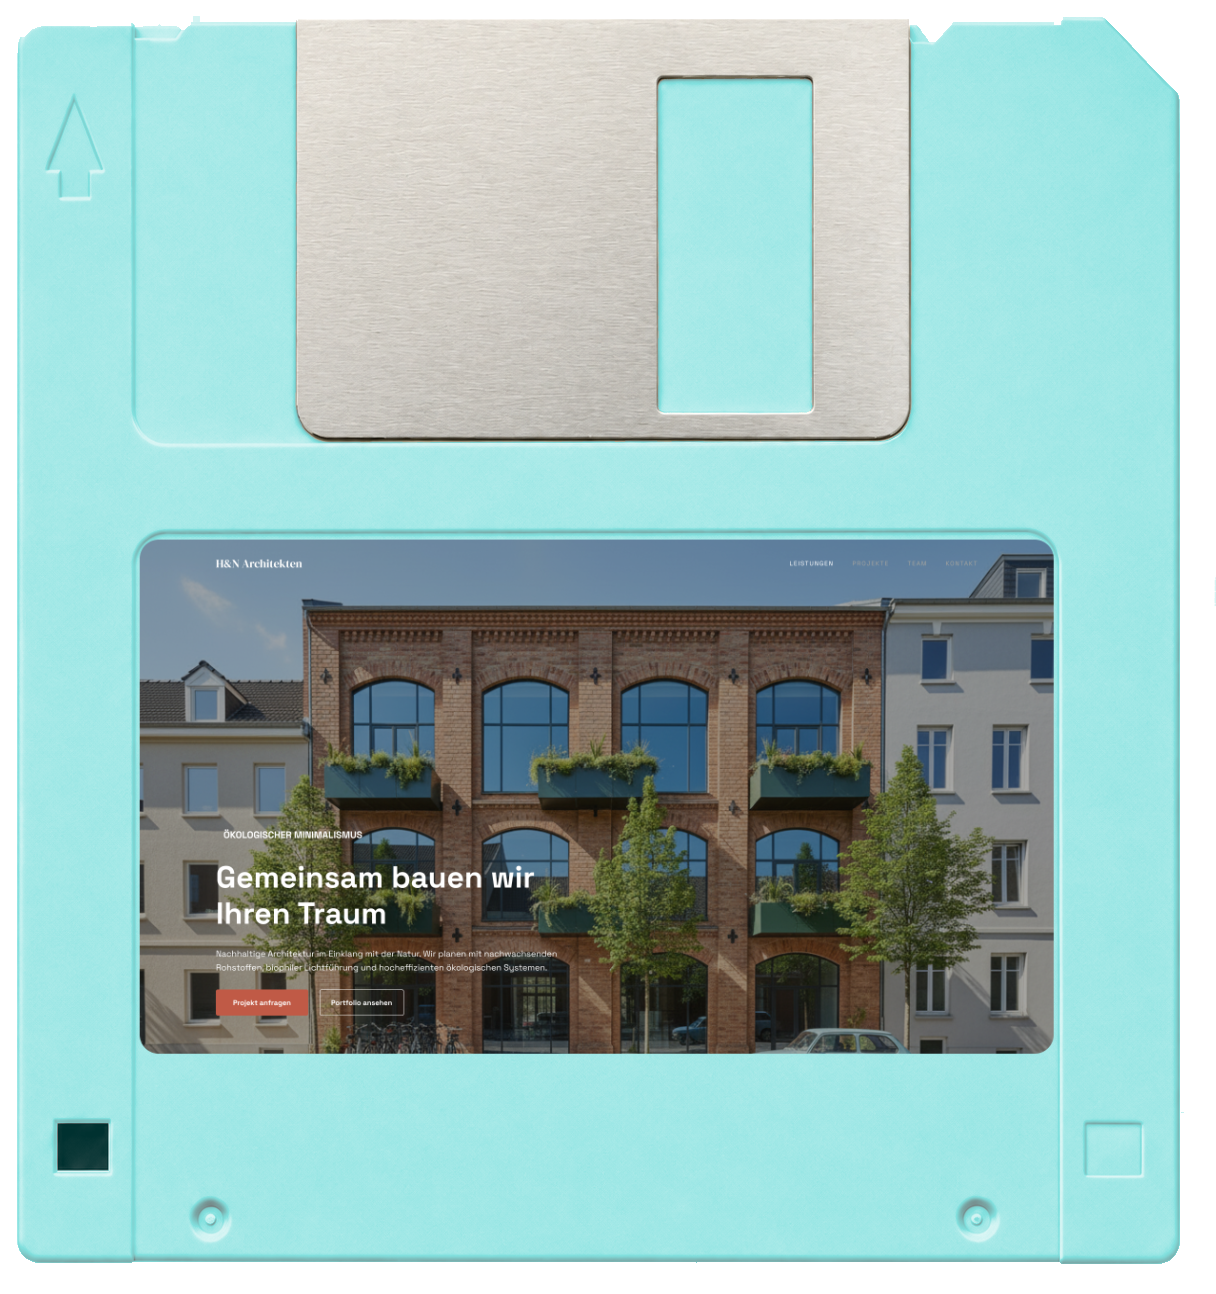
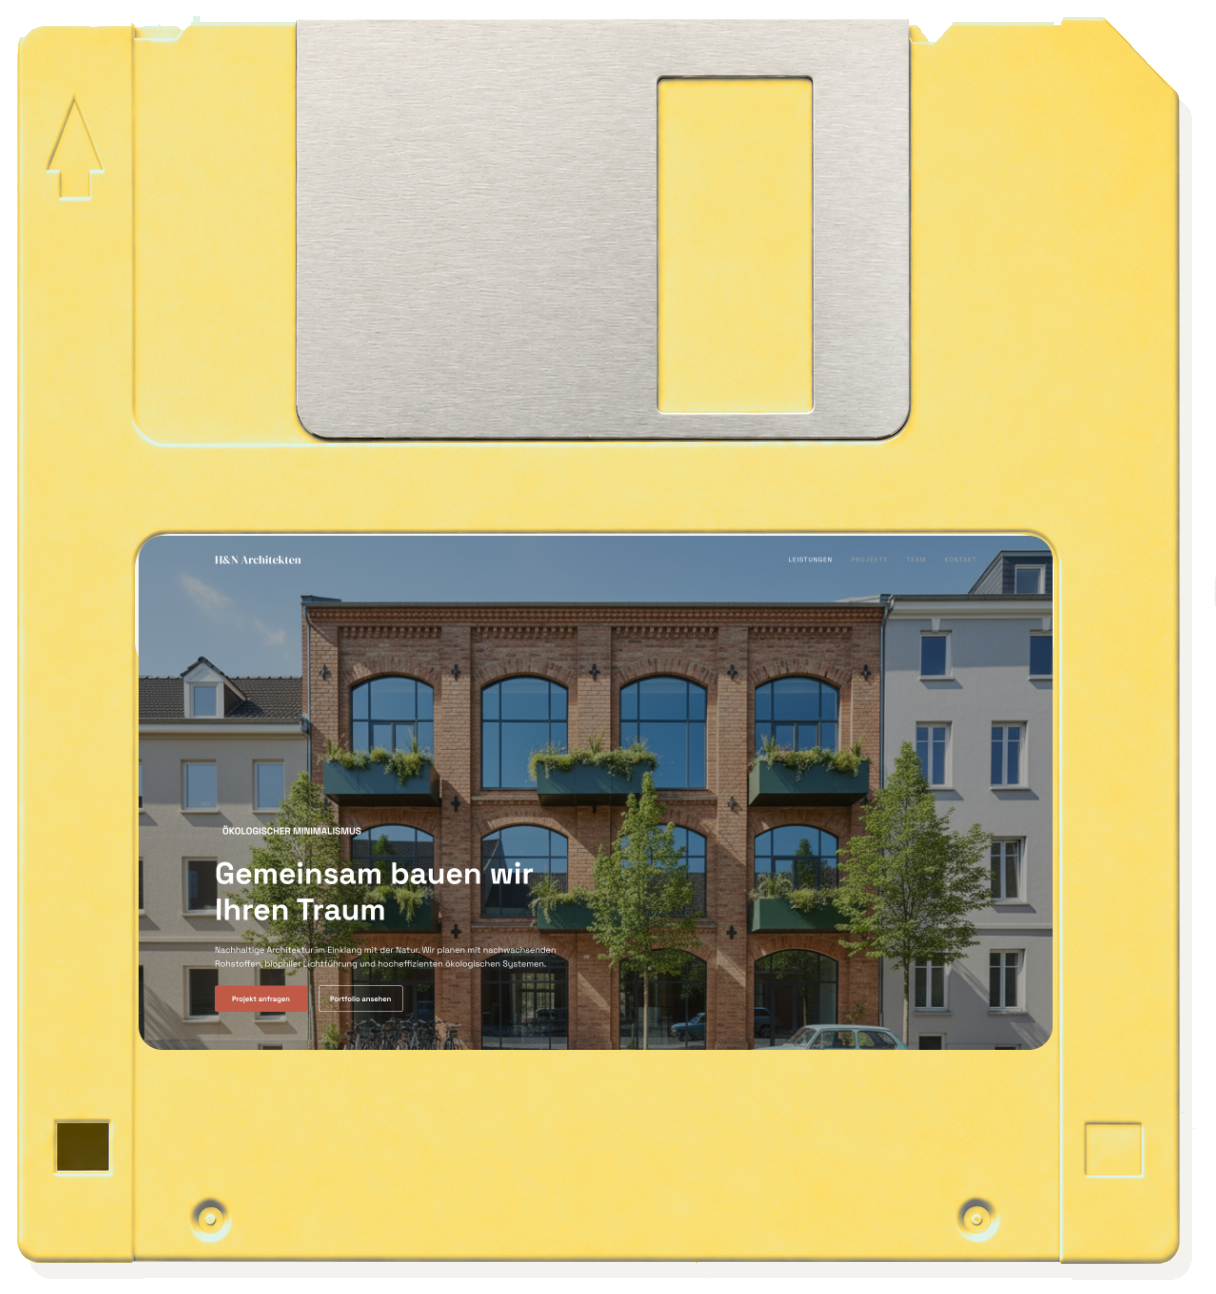
Style diskette

diff --git a/index.html b/index.html
@@ -296,7 +296,7 @@
                     <!-- Standardansicht: Logo + Schrift -->
                     <div class="project-card__default">
                       <img
-                        src="/images/DisketteM.png"
+                        src="/images/Diskette-vintura.png"
                         alt="Logo Vintura"
                         width="30%"
                       />
@@ -312,7 +312,7 @@
                     <!-- Projektbild, erscheint beim Hover -->
                     <div class="project-card__image">
                       <img
-                       src="/images/Diskette-vintura-hoverH.png"
+                       src="/images/Diskette-vintura-hover.png"
                         alt="Projekt 1 – Desktop Ansicht"
                       />
                     </div>
@@ -333,7 +333,7 @@
                     <!-- Standardansicht: Logo + Schrift -->
                     <div class="project-card__default">
                       <img
-                        src="/images/DisketteM.png"
+                        src="/images/Diskette-architects.png"
                         alt="Logo Architekturbüro H&N"
                         width="39%"
                       />
@@ -349,7 +349,7 @@
                     <!-- Projektbild, erscheint beim Hover -->
                     <div class="project-card__image">
                       <img
-                      src="/images/Diskette-architects-hoverH.png"
+                      src="/images/Diskette-architects-hover.png"
                         alt="Projekt 1 – Desktop Ansicht"
                       />
                     </div>
@@ -369,7 +369,7 @@
                     <!-- Standardansicht: Logo + Schrift -->
                     <div class="project-card__default">
                       <img
-                        src="/images/DisketteM.png"
+                        src="/images/Diskette-lamers.png"
                         alt="Logo Georg Lamers Sprachenschule"
                         width="30%"
                       />
